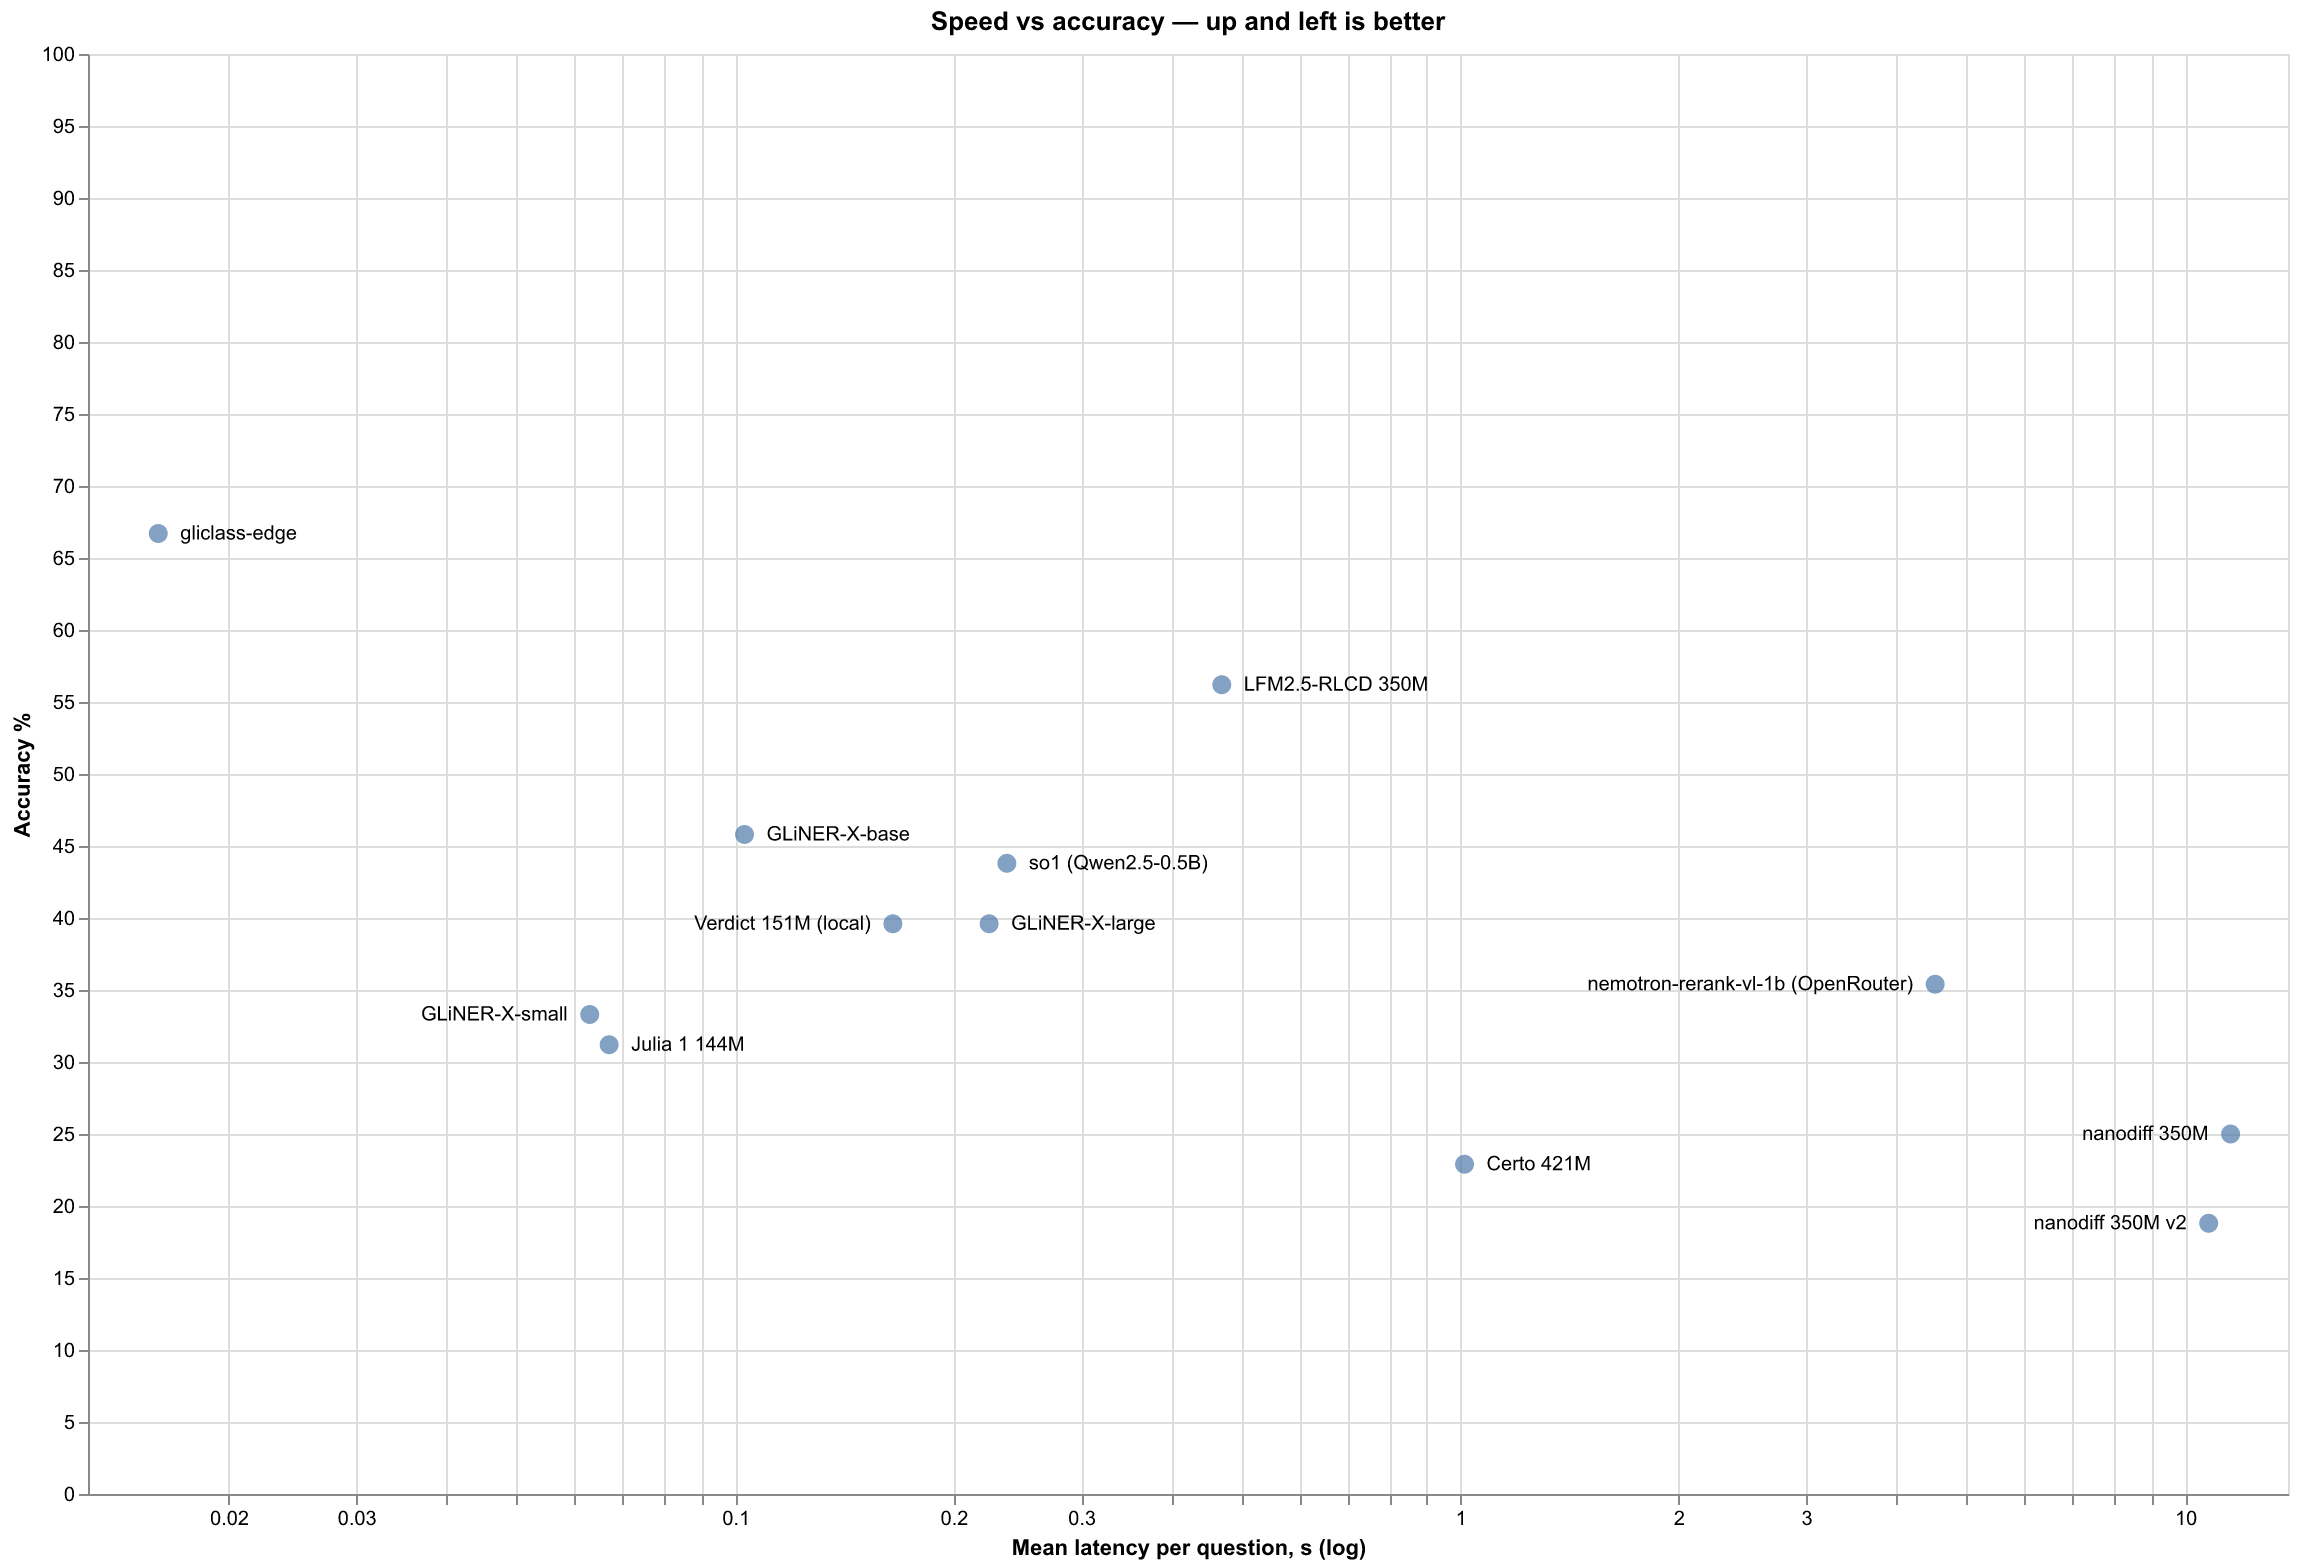
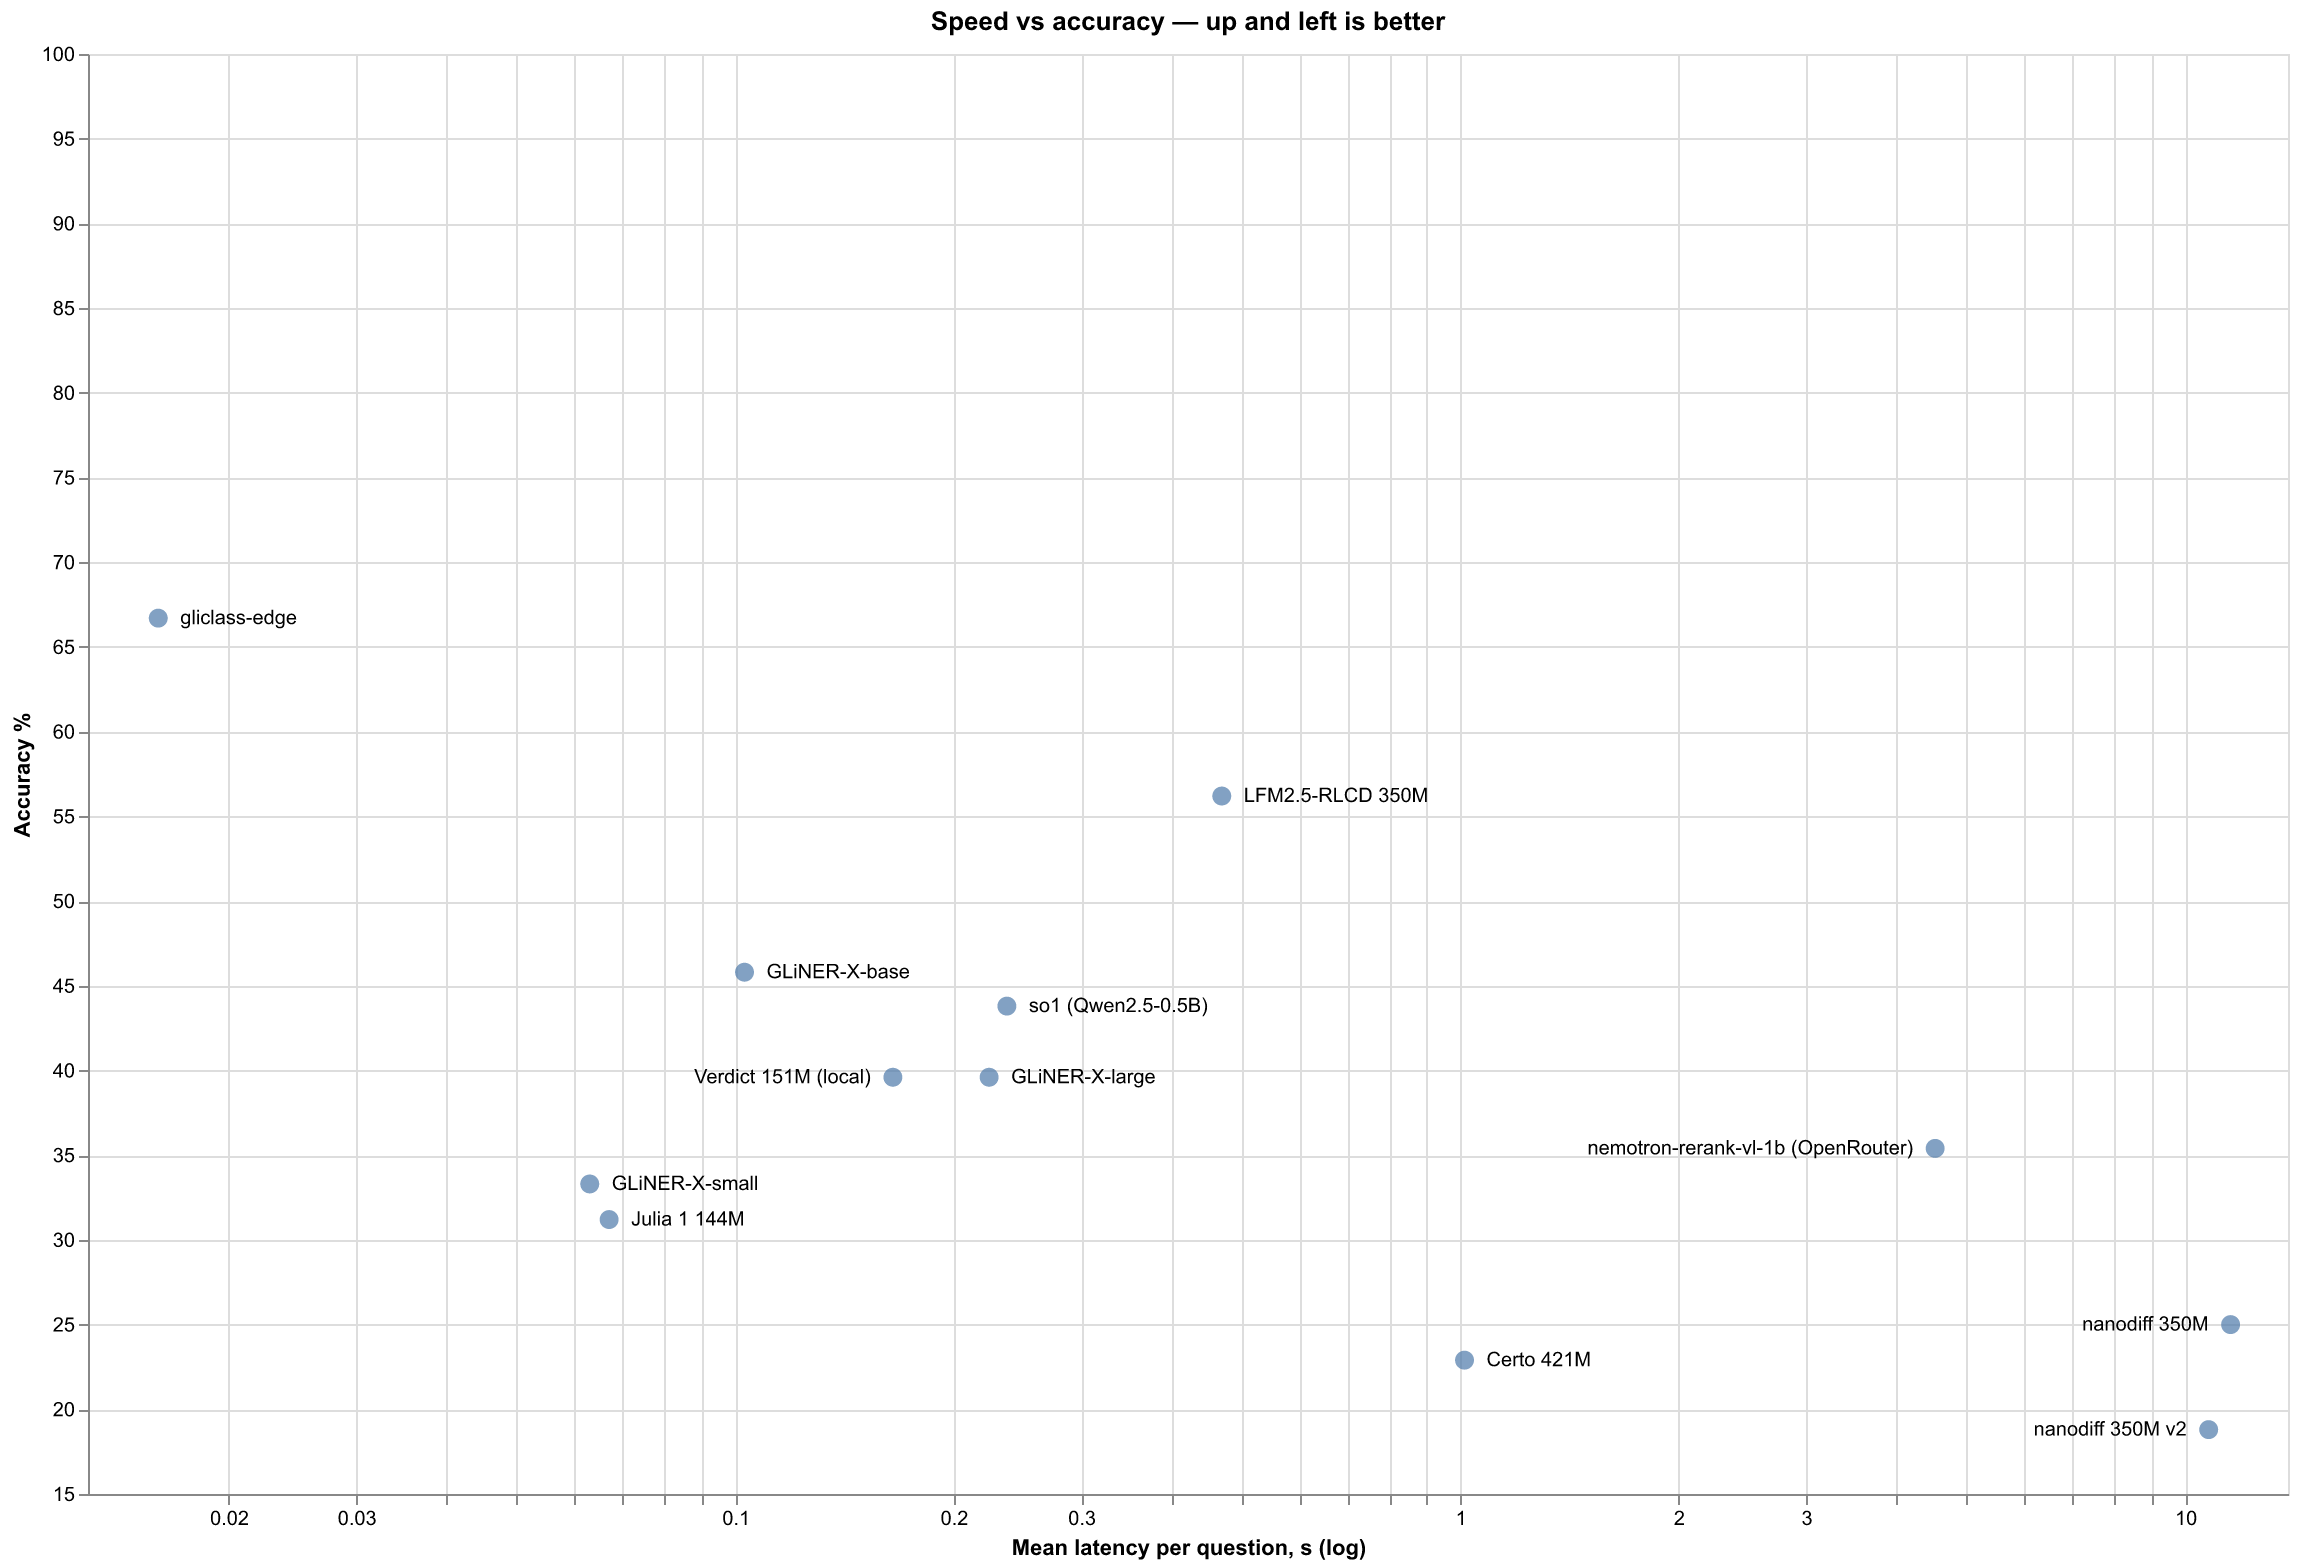
feat(charts): trim the accuracy axis on the scatter and isometric charts too
Speed-vs-accuracy, cost-vs-accuracy and the isometric grid start their
accuracy axis at the same _accuracy_domain floor as the bar charts
(one shared rule), with the label packers' pixel maps and the elbow
leaders rescaled to the new span. Latency/cost axes stay log.

diff --git a/app.py b/app.py
@@ -69,6 +69,19 @@ def get_jev_client():
 
 
 # --------------------------------------------------------------- charts
+def _accuracy_domain(series):
+    """[floor, 100] for an accuracy axis whose data stays clear of zero
+    (min >= 10 and spread >= 2): floor sits 6% of the spread under the
+    data, rounded down to a multiple of 5. None means keep [0, 100].
+    Every accuracy-axis chart (bars, spectrum, scatters, the isometric
+    projection) applies this one rule."""
+    lo, hi = float(series.min()), float(series.max())
+    if lo >= 10 and hi - lo >= 2:
+        floor = lo - (hi - lo) * 0.06
+        return floor - floor % 5, 100.0
+    return None
+
+
 def hbar_chart(df: pd.DataFrame, value: str, title: str,
                value_title: str, descending: bool = True,
                log: bool = False):
@@ -93,18 +106,16 @@ def hbar_chart(df: pd.DataFrame, value: str, title: str,
         df = df.assign(**{"_floor": floor})
         log_extra = {"x2": alt.X2("_floor:Q")}
     else:
+        dom = (_accuracy_domain(df[value]) if value.endswith("%")
+               else None)
         top = df[value].max() * 1.12
-        if (value.endswith("%") and df[value].min() >= 10
-                and df[value].max() - df[value].min() >= 2):
-            # no data near zero: start the axis at a round floor under
-            # the data so the spread stays readable — and anchor the
-            # bars there like the log branch, since a bar baseline
-            # defaults to zero and would overflow past the axis
-            floor = df[value].min() - (df[value].max()
-                                       - df[value].min()) * 0.06
-            floor = floor - floor % 5
-            df = df.assign(**{"_floor": floor})
-            xscale = alt.Scale(domain=[floor, min(top, 102.0)], zero=False)
+        if dom:
+            # no data near zero: start the axis at the floor so the
+            # spread stays readable — and anchor the bars there like
+            # the log branch, since a bar baseline defaults to zero
+            # and would overflow past the axis
+            df = df.assign(**{"_floor": dom[0]})
+            xscale = alt.Scale(domain=[dom[0], min(top, 102.0)], zero=False)
             log_extra = {"x2": alt.X2("_floor:Q")}
         else:
             xscale = alt.Scale(domain=[0, top])
@@ -217,17 +228,21 @@ def _scatter_label_layers(df: pd.DataFrame):
     Packing runs in canvas pixel space via an affine data-to-pixel mapping
     calibrated against actual vl-convert renders of single-point probes
     (residuals < 0.2 px) for the axis config tradeoff_scatter builds:
-    log x over [min*0.8, max*1.2], y over [0, 100]. The plot area then
+    log x over [min*0.8, max*1.2], y over the _accuracy_domain floor
+    (or [0, 100]). The plot area then
     starts at (43.4, 9.5) inside the canvas; the chart title shifts
     everything down uniformly and needs no adjustment."""
     dmin = math.log10(df["s per question"].min() * 0.8)
     slope = _SCATTER_W / (math.log10(df["s per question"].max() * 1.2) - dmin)
+    acc_dom = _accuracy_domain(df["Accuracy %"])
+    ylo, yspan = (acc_dom[0], acc_dom[1] - acc_dom[0]) if acc_dom \
+        else (0.0, 100.0)
 
     def px_(v):
         return 43.4 + (math.log10(v) - dmin) * slope
 
     def py_(acc):
-        return 9.5 + (100 - acc) / 100 * _SCATTER_H
+        return 9.5 + (ylo + yspan - acc) / yspan * _SCATTER_H
 
     pts = sorted(((px_(v), py_(acc), str(name))
                   for v, acc, name in zip(df["s per question"],
@@ -297,7 +312,10 @@ def tradeoff_scatter(df: pd.DataFrame, title: str):
     xscale = alt.Scale(type="log",
                        domain=[df["s per question"].min() * 0.8,
                                df["s per question"].max() * 1.2])
-    yscale = alt.Scale(domain=[0, 100])
+    acc_dom = _accuracy_domain(df["Accuracy %"])
+    ylo, yspan = (acc_dom[0], acc_dom[1] - acc_dom[0]) if acc_dom \
+        else (0.0, 100.0)
+    yscale = alt.Scale(domain=acc_dom or [0, 100])
     points = (
         alt.Chart(df, title=title)
         .mark_circle(size=90)
@@ -344,7 +362,7 @@ def tradeoff_scatter(df: pd.DataFrame, title: str):
                 seg_rows.append({  # elbow column -> label center
                     "s per question": data_x(x0 + col), "Accuracy %": a,
                     "_x2": data_x(x0 + col),
-                    "_y2": a - (dy - 1) / _SCATTER_H * 100})
+                    "_y2": a - (dy - 1) * yspan / _SCATTER_H})
             rules.append(
                 alt.Chart(pd.DataFrame(seg_rows))
                 .mark_rule(stroke="#999999", strokeWidth=0.6)
@@ -378,7 +396,10 @@ def cost_scatter(df: pd.DataFrame, title: str):
     plot["$ per question"] = plot["$ per question"].clip(lower=floor)
     dmax = float(plot["$ per question"].max()) * 6  # right-side label room
     xscale = alt.Scale(type="log", domain=[floor, dmax])
-    yscale = alt.Scale(domain=[0, 100])
+    acc_dom = _accuracy_domain(plot["Accuracy %"])
+    ylo, yspan = (acc_dom[0], acc_dom[1] - acc_dom[0]) if acc_dom \
+        else (0.0, 100.0)
+    yscale = alt.Scale(domain=acc_dom or [0, 100])
     log_span = math.log10(dmax) - math.log10(floor)
 
     def px(v: float) -> float:
@@ -391,7 +412,7 @@ def cost_scatter(df: pd.DataFrame, title: str):
                      .str.replace(" (hosted)", "", regex=False))
     plot["_side"], plot["_dy"] = "right", -13
     pts = [(px(row["$ per question"]),
-            (100 - row["Accuracy %"]) / 100 * _COST_H,
+            (ylo + yspan - row["Accuracy %"]) / yspan * _COST_H,
             row["Label"])
            for _, row in plot.iterrows()]
     # every marker is an obstacle for every label (radius ~5.4 px, padded);
@@ -565,13 +586,17 @@ def _cost_speed_geometry(df: pd.DataFrame):
     cost_floor = float(df["$ per question"].min()) * 0.45  # headroom
     cost_top = float(df["$ per question"].max()) * 6       # label room
     lat_top = float(df["Latency s"].max()) * 1.15
+    acc_dom = _accuracy_domain(df["Accuracy %"])
+    acc_lo, acc_span = (acc_dom[0], acc_dom[1] - acc_dom[0]) if acc_dom \
+        else (0.0, 100.0)
     log_lo, log_hi = math.log10(cost_floor), math.log10(cost_top)
 
     def cube(cost, lat, acc):
         c = (math.log10(cost) - log_lo) / (log_hi - log_lo)
+        a = (acc - acc_lo) / acc_span
         return (min(max(c, 0.0), 1.0),
                 min(max(lat / lat_top, 0.0), 1.0),
-                min(max(acc / 100.0, 0.0), 1.0))
+                min(max(a, 0.0), 1.0))
 
     # fit the projected unit cube into the canvas; the left pad holds
     # the accuracy tick labels, both side pads hold system labels
@@ -647,7 +672,9 @@ def _cost_speed_geometry(df: pd.DataFrame):
         labels_lat.append((p[0] + pl[0] * 24, p[1] + pl[1] * 24,
                            f"{v:.1f}"))
     for acc in range(20, 101, 20):
-        p = px((0.0, 0.0, acc / 100))
+        if not acc_lo < acc <= acc_lo + acc_span:
+            continue
+        p = px((0.0, 0.0, (acc - acc_lo) / acc_span))
         ticks.append((p, (p[0] - 7, p[1])))
         labels_acc.append((p[0] - 13, p[1], str(acc)))
 
@@ -857,10 +884,8 @@ def spectrum_line(df: pd.DataFrame, y_title: str, title: str):
     would erase the earlier one."""
     dashes = [[1, 0], [6, 3], [2, 2], [10, 2, 2, 2], [8, 8],
               [3, 1, 3, 4], [12, 2, 4, 2], [1, 3]]
-    # start the y axis at the data floor when nothing lands near zero
-    # (hbar_chart applies the same rule to its % axes)
-    ymin = df[y_title].min()
-    yscale = (alt.Scale(domain=[ymin - 2, 100]) if ymin >= 10
+    dom = _accuracy_domain(df[y_title])
+    yscale = (alt.Scale(domain=dom) if dom
               else alt.Scale(domain=[0, 100]))
     return (
         alt.Chart(df, title=title)
